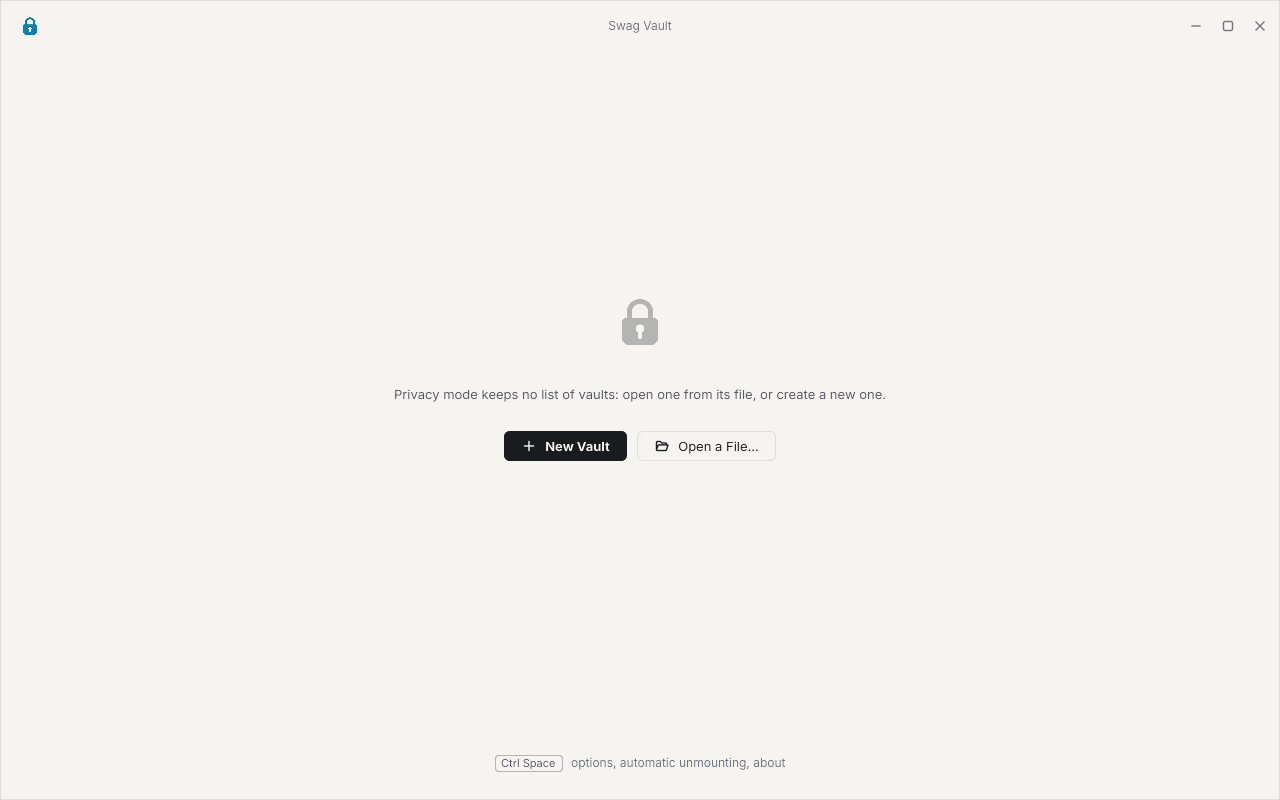
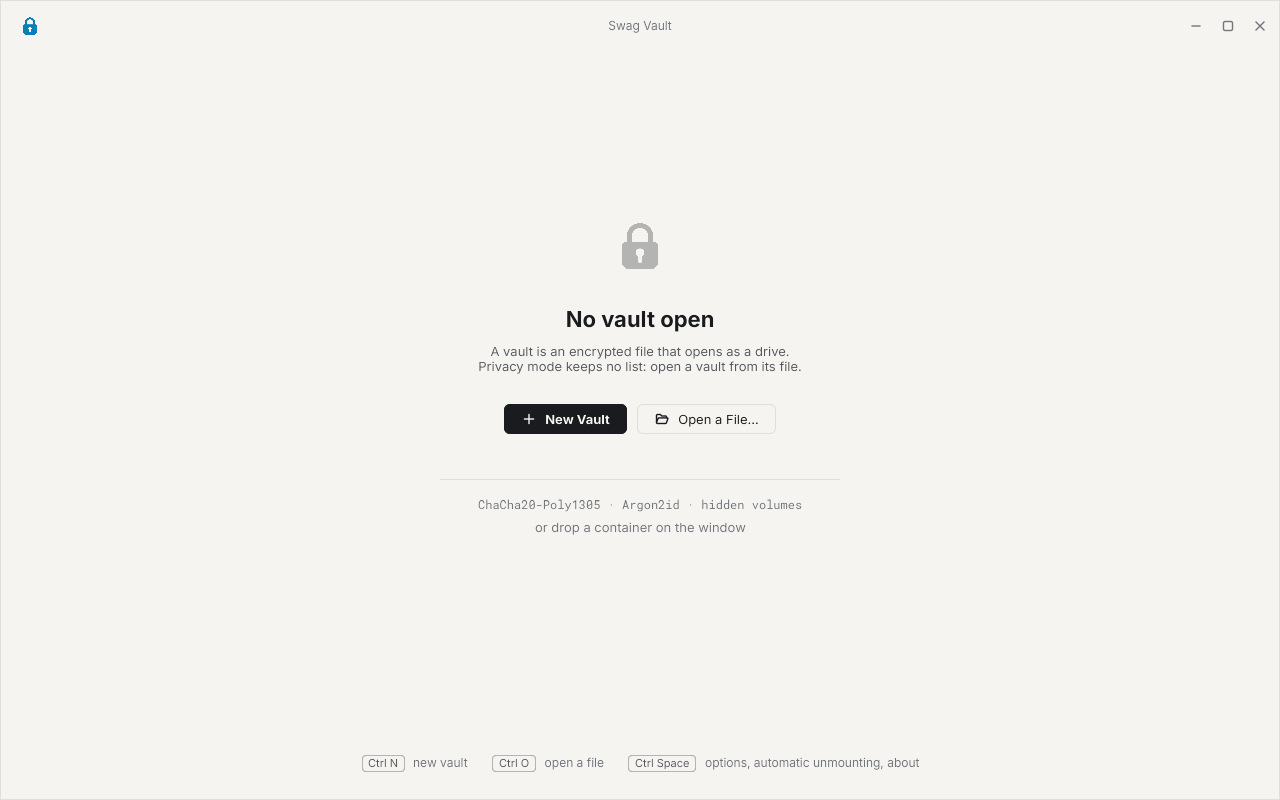
Say more on the Swag Vault home and teach its keys
The window without a vault now gives a title, a second line on what a
vault keeps or why privacy mode left the list empty, and a faint foot
under a hairline naming the ciphers and recalling that a container can
be dropped on the window. Its hint line teaches Ctrl N and Ctrl O
before Ctrl Space.

diff --git a/backlog/design/README.md b/backlog/design/README.md
@@ -807,9 +807,12 @@ the screen to its work.
   ground and names what choosing it does, "Unlock". Choosing it unfolds it in place (password,
   drive, key files link, read-only, primary "Mount").
 - Without a vault — the first visit, and every start while privacy mode keeps no list — the page
-  is the home: the mark, large and faint, gives the page its centre; one sentence says what a vault
-  is, or that privacy mode keeps no list; under it "New Vault" is the one primary action of the
-  screen, with "Open a File…" beside it as a secondary button.
+  is the home: the mark, large and faint, gives the page its centre; a title (22, bold) says that no
+  vault is there or open, and two soft lines say what a vault is, then what it keeps or that
+  privacy mode keeps no list. Under them "New Vault" is the one primary action of the screen, with
+  "Open a File…" beside it as a secondary button. Under a hairline, a faint foot names the ciphers
+  in mono and recalls that a container can be dropped on the window. The hint line teaches
+  `Ctrl N` and `Ctrl O` before `Ctrl Space`.
 - Create, progress and options are pages with a back link, not tabs: a calm form with the
   capacity in large type; the randomisation progress as a huge percentage over an Arc line;
   options as rows with a title, a help paragraph and an Arc switch.
